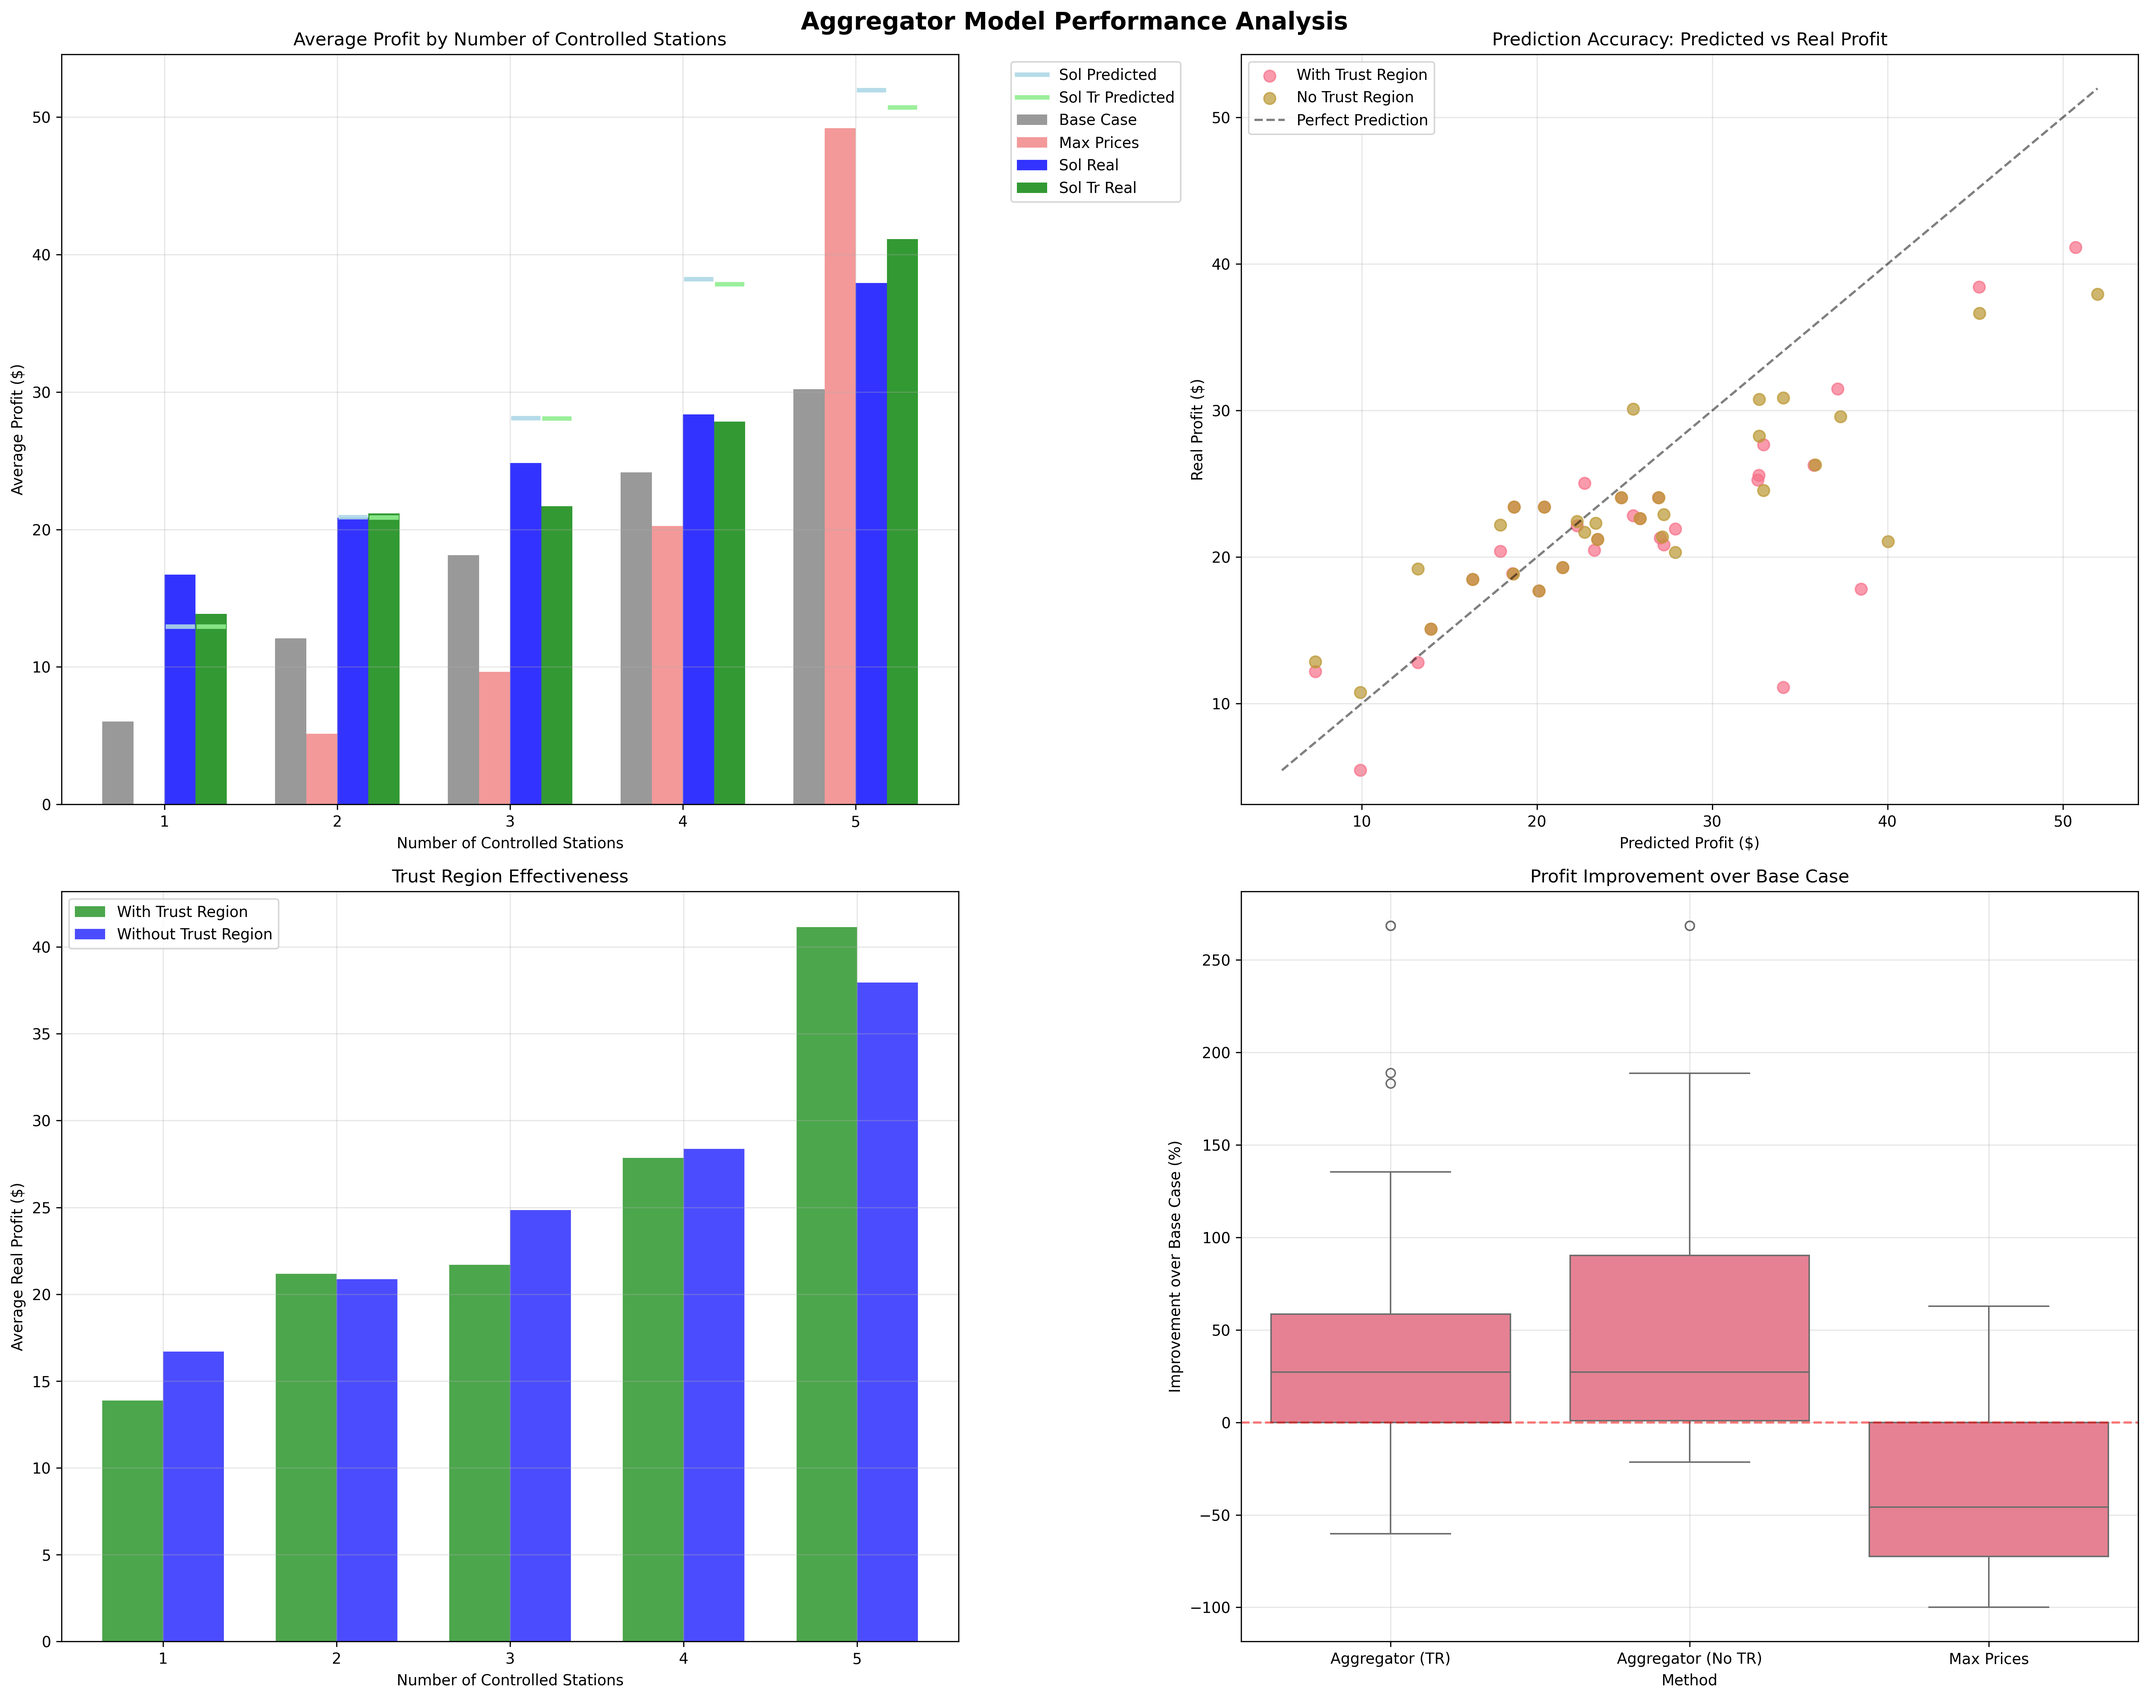
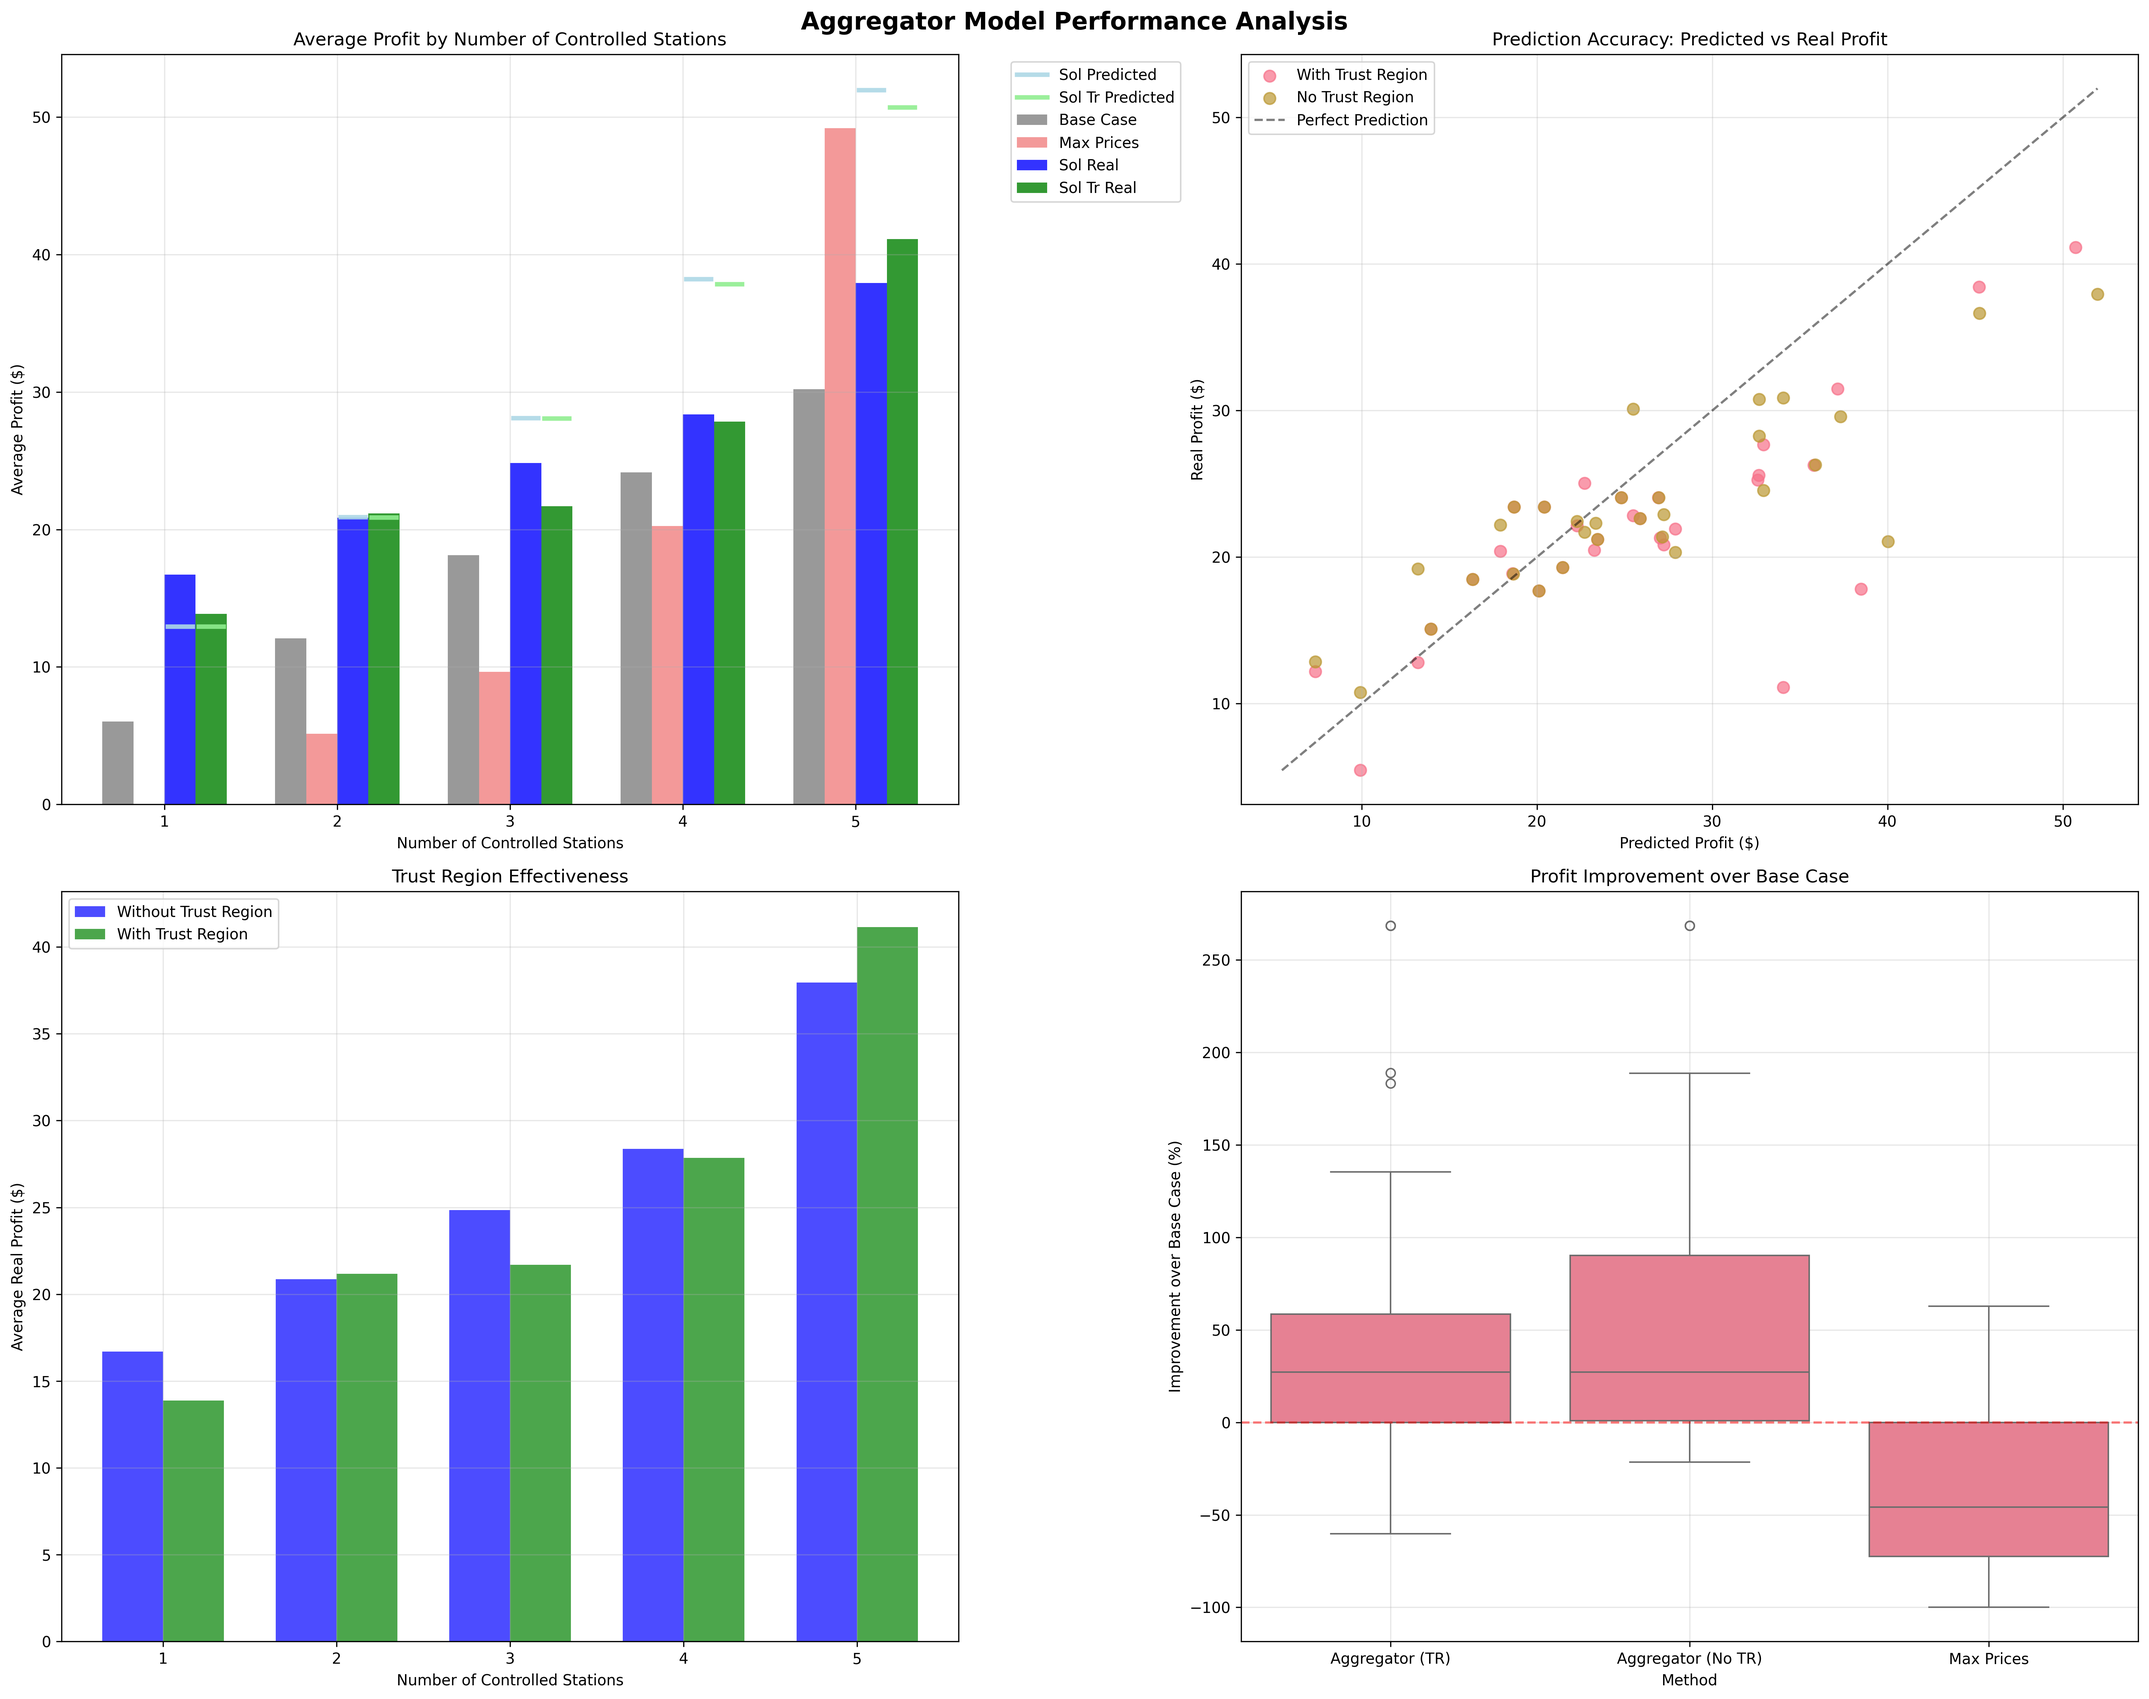
Consistent order in plot

Changed region(s): [[0.0312, 0.5296, 0.4362, 0.9657], [0.0312, 0.5296, 0.1246, 0.5607]]

diff --git a/scripts/analyze_experiments_aggregator.py b/scripts/analyze_experiments_aggregator.py
@@ -223,10 +223,10 @@ def create_comprehensive_analysis(df, output_dir="../images"):
         x = np.arange(len(tr_by_size))
         width = 0.35
         
-        ax3.bar(x - width/2, tr_by_size['with_tr'], width, label='With Trust Region', 
-               color='green', alpha=0.7)
-        ax3.bar(x + width/2, tr_by_size['without_tr'], width, label='Without Trust Region', 
+        ax3.bar(x - width/2, tr_by_size['without_tr'], width, label='Without Trust Region', 
                color='blue', alpha=0.7)
+        ax3.bar(x + width/2, tr_by_size['with_tr'], width, label='With Trust Region', 
+               color='green', alpha=0.7)
         
         ax3.set_xlabel('Number of Controlled Stations')
         ax3.set_ylabel('Average Real Profit ($)')
@@ -401,10 +401,10 @@ def create_comprehensive_analysis(df, output_dir="../images"):
         x = np.arange(len(tr_by_size))
         width = 0.35
         
-        ax.bar(x - width/2, tr_by_size['with_tr'], width, label='With Trust Region', 
-               color='green', alpha=0.7)
-        ax.bar(x + width/2, tr_by_size['without_tr'], width, label='Without Trust Region', 
+        ax.bar(x - width/2, tr_by_size['without_tr'], width, label='Without Trust Region', 
                color='blue', alpha=0.7)
+        ax.bar(x + width/2, tr_by_size['with_tr'], width, label='With Trust Region', 
+               color='green', alpha=0.7)
         
         ax.set_xlabel('Number of Controlled Stations', fontsize=12)
         ax.set_ylabel('Average Real Profit ($)', fontsize=12)
